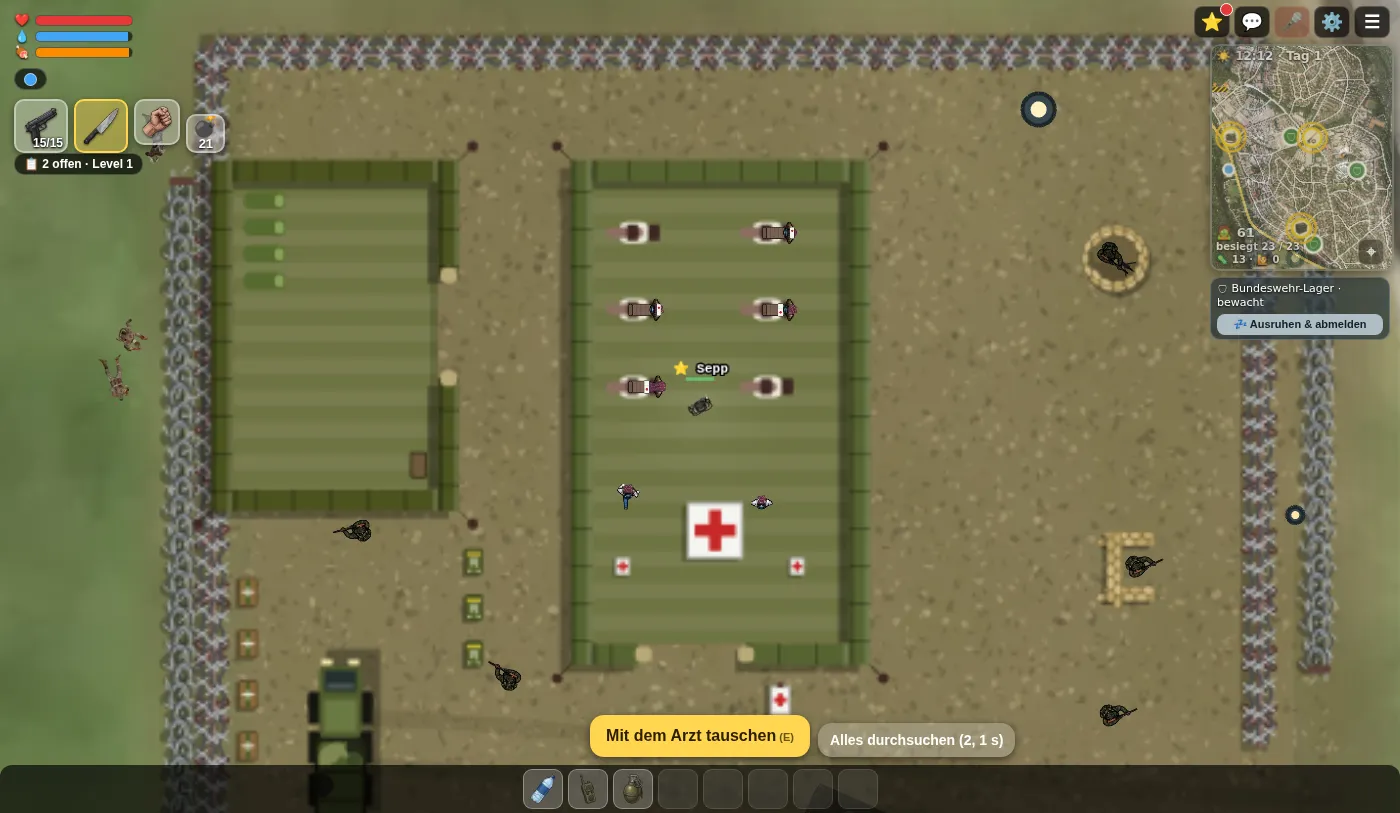
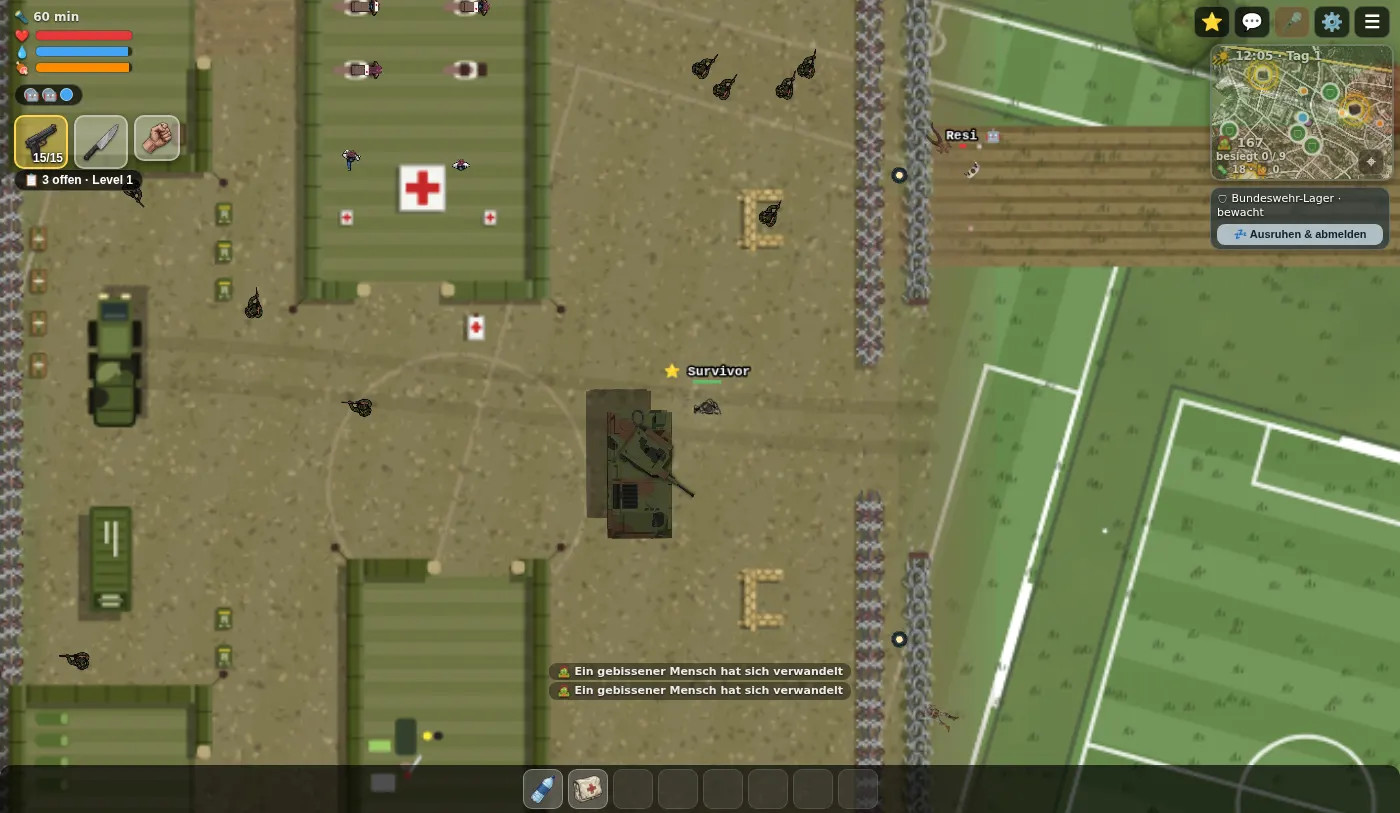
Impressum und Datenschutz als Einstellungen, Wiki-Migration entfernt, Kulisse nur für Karten mit Daten, neue Bildschirmfotos (Survivor)

diff --git a/zombies/client/verwaltung.html b/zombies/client/verwaltung.html
@@ -850,6 +850,18 @@ a.knopf { display: inline-flex; align-items: center; padding: 6px 14px; border: 
       <p class="hinweis">Optional: Adresse eines DokuWiki für die Links „Mehr dazu im Wiki“ nach den Rätseln. Leer = keine Links.</p>
     </div>
 
+    <div class="feld" id="impressumFeld">
+      <label for="impressum">Impressum</label>
+      <textarea id="impressum" rows="6" maxlength="20000" autocomplete="off" spellcheck="false" style="width:100%;box-sizing:border-box;font:inherit"></textarea>
+      <p class="hinweis">Erscheint unter „/impressum“ und als Link auf der Startseite; leer = kein Link. Auszeichnung: Leerzeile = Absatz, <code>#</code> Überschrift, <code>**fett**</code>, <code>[Text](https://…)</code>. HTML wird nicht ausgeführt.</p>
+    </div>
+
+    <div class="feld" id="datenschutzFeld">
+      <label for="datenschutz">Datenschutzerklärung</label>
+      <textarea id="datenschutz" rows="6" maxlength="20000" autocomplete="off" spellcheck="false" style="width:100%;box-sizing:border-box;font:inherit"></textarea>
+      <p class="hinweis">Erscheint unter „/datenschutz“ und als Link auf der Startseite; leer = kein Link. Gleiche Auszeichnung wie beim Impressum.</p>
+    </div>
+
     <div class="feld" id="suFeld">
       <label for="suPasswort">Superuser-Passwort (Testzugang)</label>
       <div class="pass-feld">
@@ -3582,6 +3594,10 @@ a.knopf { display: inline-flex; align-items: center; padding: 6px 14px; border: 
     }
     var wiki = $("wikiAdresse");
     if (!zeitGeber["wikiAdresse"] && !istFokussiert(wiki)) wiki.value = e.wikiAdresse || "";
+    ["impressum", "datenschutz"].forEach(function (k) {
+      var t = $(k);
+      if (t && !zeitGeber[k] && !istFokussiert(t)) t.value = e[k] || "";
+    });
   }
 
   function aktualisiereKarteHinweis(d, gewaehlt) {
@@ -3762,6 +3778,13 @@ a.knopf { display: inline-flex; align-items: center; padding: 6px 14px; border: 
         zeitGeber["wikiAdresse"] = null;
         sendenTeil("wikiAdresse", null, wikiEl.value);
       }, 600);
+    });
+    ["impressum", "datenschutz"].forEach(function (k) {
+      var t = $(k);
+      t.addEventListener("input", function () {
+        clearTimeout(zeitGeber[k]);
+        zeitGeber[k] = setTimeout(function () { zeitGeber[k] = null; sendenTeil(k, null, t.value); }, 800);
+      });
     });
     $("augeKnopf").addEventListener("click", function () {
       var anzeigen = code.type === "password";
@@ -4645,6 +4668,7 @@ a.knopf { display: inline-flex; align-items: center; padding: 6px 14px; border: 
   var zc = $('zugangscode'), suF = $('suFeld');
   if (zc && zc.closest('.feld')) zug.appendChild(zc.closest('.feld'));
   var wkF = $('wikiFeld'); if (wkF) zug.appendChild(wkF);
+  ['impressumFeld', 'datenschutzFeld'].forEach(function (i) { var f = $(i); if (f) zug.appendChild(f); });
   if (suF) zug.appendChild(suF);
   rein('zugang', zug);
   var dgs = $('diagnoseSchalter'); if (dgs) zug.appendChild(dgs);

diff --git a/zombies/client/index.html b/zombies/client/index.html
@@ -61,6 +61,7 @@
     <p class="grafiknachweis">Luftbild, Höhenmodelle, 3D-Gebäude (LoD2), Hausumringe, Einzelbäume, ATKIS Basis-DLM, ALKIS Parzellarkarte und Tatsächliche Nutzung (gezeichneter Boden): © Bayerische Vermessungsverwaltung (<a href="https://creativecommons.org/licenses/by/4.0/deed.de" target="_blank" rel="noopener">CC BY 4.0</a>), © swisstopo (SWISSIMAGE).</p>
     <p class="grafiknachweis">Musik: „Overdrive“ von MAITTRE und „Dominion“ von Hriday Talur (beide <a href="https://creativecommons.org/licenses/by/3.0/" target="_blank" rel="noopener">CC BY 3.0</a>, über breakingcopyright.com); weitere Musik und Geräusche von Pixabay (Pixabay-Lizenz), Sonilo und Freesound; Radio-Eilmeldung mit Piper, Stimme „Thorsten“ von Thorsten Müller (CC0).</p>
     <p class="grafiknachweis osm">Kartendaten © <a href="https://www.openstreetmap.org/copyright" target="_blank" rel="noopener">OpenStreetMap-Mitwirkende</a>, <a href="https://opendatacommons.org/licenses/odbl/1-0/" target="_blank" rel="noopener">ODbL</a>. <a href="#" id="creditsLink">Credits &amp; Lizenzen</a></p>
+    <p class="grafiknachweis" id="rechtslinks" hidden></p>
     <dialog id="creditsDialog" class="credits-dialog">
       <h3>Credits &amp; Lizenzen</h3>
       <p>Der Quellcode steht unter der MIT-Lizenz. Grafiken, Karten, Texte und Töne haben eigene Lizenzen. Die Handlung ist frei erfunden. Die vollständige Liste steht in <b>CREDITS.md</b> im Projekt-Repository.</p>

diff --git a/zombies/DOCS.md b/zombies/DOCS.md
@@ -35,9 +35,8 @@ Alles Wichtige stellst du bequem in der Seitenleiste „Zombies“ ein. Änderun
 Gespeichert wird in `/data/einstellungen.json`. Im Konfigurations-Reiter des Add-ons stehen nur noch die `externe_adresse`
 (https-Adresse des Spiels von außen; wird auf der Startseite als Link „Mit Mikrofon spielen“ gezeigt, wenn die Seite per
 http:// geöffnet wurde, weil das Mikrofon https braucht) und `stun_server` bzw. optional `turn_*` (Sprachfunk). Alles andere,
-auch die Wiki-Adresse (Links nach den Rätseln, Gruppe „Zugang & Test“), wird auf der Einstellungsseite des Spiels
-vorgenommen. Alte Optionen (`karte`, `zombies`, `funde`, `zugangscode`, `bots`) wirken nur noch beim allerersten Start;
-eine frühere `wiki_adresse` wird einmalig in die Spiel-Einstellungen übernommen.
+auch die Wiki-Adresse (Links nach den Rätseln), Impressum und Datenschutz, wird auf der Einstellungsseite des Spiels
+unter „Zugang & Test“ eingetragen. Alte Optionen (`karte`, `zombies`, `funde`, `zugangscode`, `bots`) wirken nur noch beim allerersten Start.
 
 ## Rätsel
 
@@ -124,9 +123,8 @@ Most things are set in the sidebar panel "Zombies" and apply immediately, withou
 Settings are stored in `/data/einstellungen.json`. The add-on's Configuration tab only holds `externe_adresse` (https
 address of the game from outside; shown as a "play with microphone" link when the page was opened over http) and
 `stun_server` / optional `turn_*` (voice chat servers; the default STUN server is a public Google one – leave it empty to
-disable it). Everything else, including the wiki address (links after each quiz, group "Zugang & Test"), is set on the
-game's settings page. Old options (`karte`, `zombies`, `funde`, `zugangscode`, `bots`) only act on the very first start; a
-former `wiki_adresse` is adopted once into the game settings.
+disable it). Everything else, including the wiki address (links after each quiz), imprint and privacy notice, is entered on the
+game's settings page under "Zugang & Test". Old options (`karte`, `zombies`, `funde`, `zugangscode`, `bots`) only act on the very first start.
 
 ## Puzzles
 

diff --git a/README.md b/README.md
@@ -98,7 +98,7 @@ dienen nur als Startwerte beim allerersten Start:
 | `externe_adresse` | https-Adresse von außen (Mikrofon) |
 | `stun_server`, `turn_*` | Sprachfunk-Server (STUN, optional TURN-Relais) |
 
-Alle anderen Einstellungen (Karte, Zombies, Funde, Zugangscode, Bots, Wiki-Adresse …) stehen auf der Einstellungsseite des Spiels (Seitenleiste).
+Alle anderen Einstellungen (Karte, Zombies, Funde, Zugangscode, Bots, Wiki-Adresse, Impressum, Datenschutz …) stehen auf der Einstellungsseite des Spiels (Seitenleiste, Gruppe „Zugang & Test“).
 
 Mehr dazu im Reiter „Dokumentation“ des Add-ons (`zombies/DOCS.md`).
 
@@ -194,7 +194,7 @@ initial values for the very first start:
 | `externe_adresse` | External https address (needed for the microphone) |
 | `stun_server`, `turn_*` | Voice chat servers (STUN, optional TURN relay) |
 
-All other settings (map, zombies, finds, access code, bots, wiki address …) are on the game's settings page (sidebar).
+All other settings (map, zombies, finds, access code, bots, wiki address, imprint, privacy notice …) are on the game's settings page (sidebar).
 
 More details are in the add-on's "Documentation" tab (`zombies/DOCS.md`).
 
